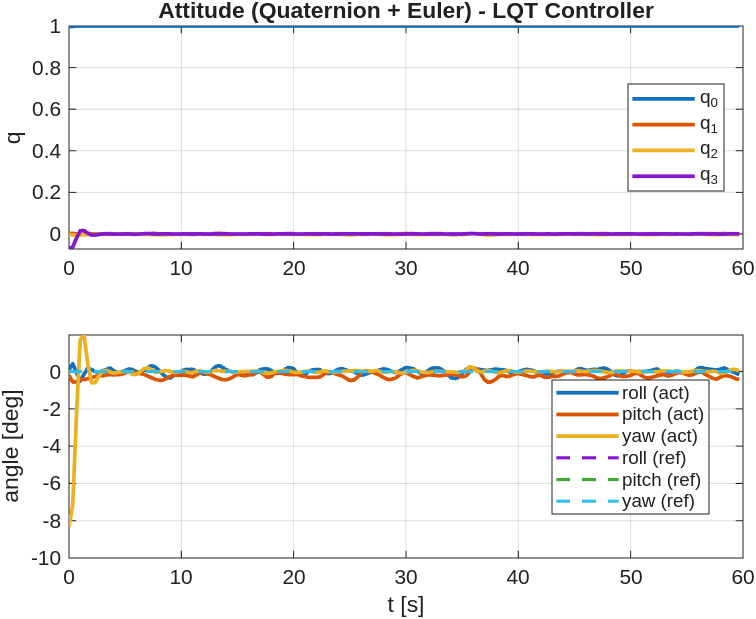
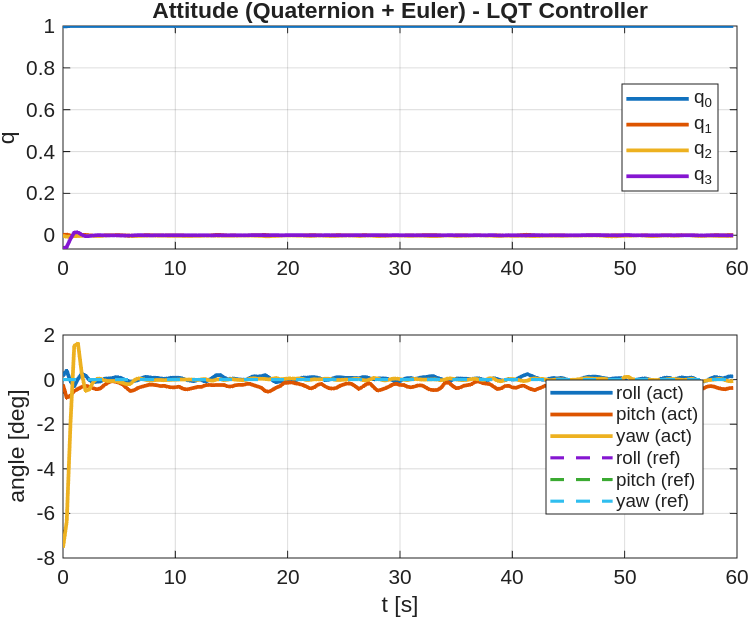
updated weights for LQT

diff --git a/MATLAB/GNC_Algorithms/Control/run_P02_LQT.m b/MATLAB/GNC_Algorithms/Control/run_P02_LQT.m
@@ -49,12 +49,23 @@ function run_P02_LQT()
     %     1; 0; 0; 0; ...  % quaternion
     %     0; 0; 0];  % body rates
 
-    % WEIGHTS FOR YOUR CONTROLLER
-    Q = diag([50, 50, 50, ...  % position
-              1, 1, 1, ...     % velocity
-              40, 40, 40, 40, ... % quaternion
-              1, 1, 1]);       % body rates
-    R = diag([1, 1, 1, 1]);  % control
+    % WEIGHTS 
+    Q_pos = diag([  50,  5, 5 ]);
+    Q_vel = diag([  12,  2,  2 ]);
+    Q_q   = diag([ 20, 20, 20, 20 ]);
+    Q_omega  = diag([  2,  2,  2 ]);
+    Q = blkdiag(Q_pos, Q_vel, Q_q, Q_omega);
+
+    R = diag([ 2,  1,  1,  1 ]);
+
+    % print weights for logging purposes
+    disp('State weight matrix Q as diag:');
+    disp(Q_pos);
+    disp(Q_vel);
+    disp(Q_q);
+    disp(Q_omega);
+    disp('Input weight matrix R as diag:');
+    disp(R);
     
     % FEEDFORWARD CONTROL INPUT
     m = px4_config.m; g = px4_config.g;
@@ -144,7 +155,7 @@ function run_P02_LQT()
         switch CONTROL_MODE
             case 'position'
                 px4_send_trajectory(client, x_next(1), x_next(2), x_next(3), 0, config);
-                yaw_ref = atan2(xref(5), xref(4));
+                %yaw_ref = atan2(xref(5), xref(4));
                 %px4_send_trajectory(client, xref(1), xref(2), xref(3), yaw_ref, config);
             case 'attitude'
                 [q_desired, roll_des, pitch_des, yaw_des, angle_limited] = saturate_attitude(x_next, deg2rad(15));
@@ -213,7 +224,7 @@ function run_P02_LQT()
     
     save_log_data(log_data, 'log_p02_lqt.mat');
     %plot_P02_lqt_results('log_p02_lqt.mat');
-    plot_tracking_results('log_p02_lqt.mat', 'LQT Controller');
+    plot_tracking_results('log_p02_lqt.mat', 'P02 - LQT');
 
     reinitial_x500("tracking");
 
